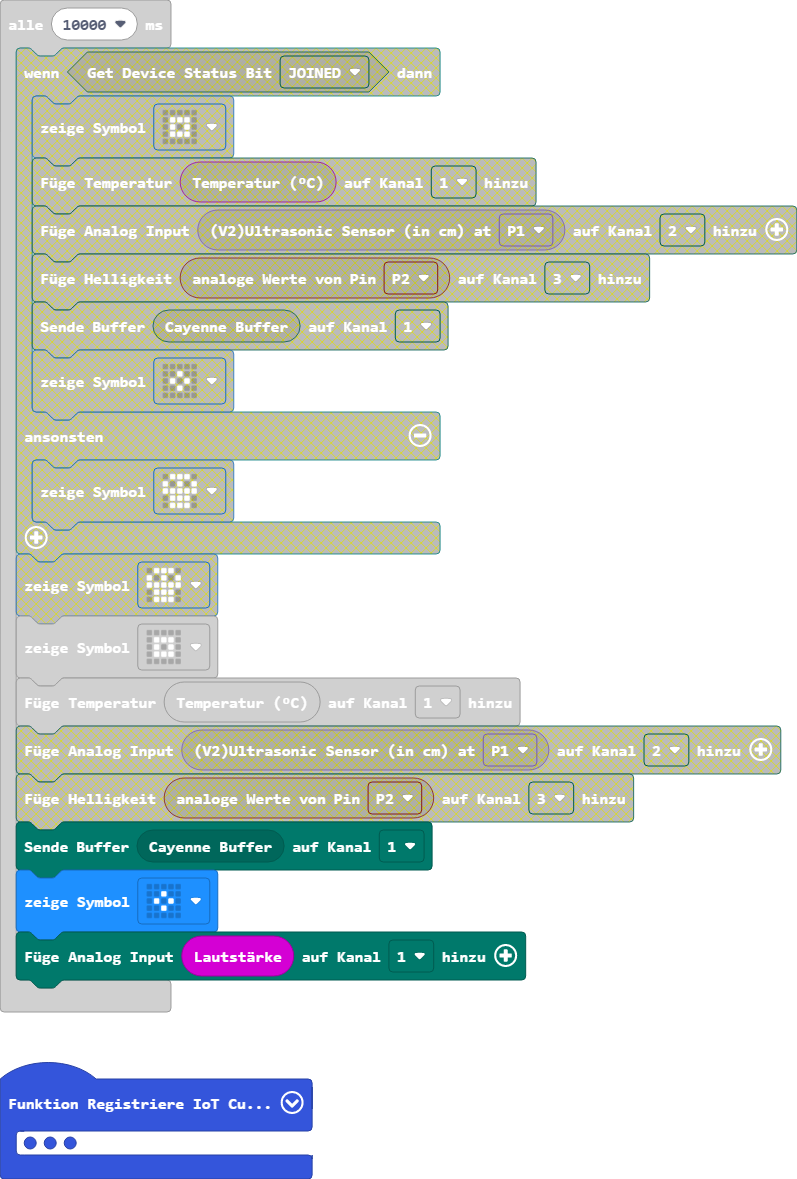
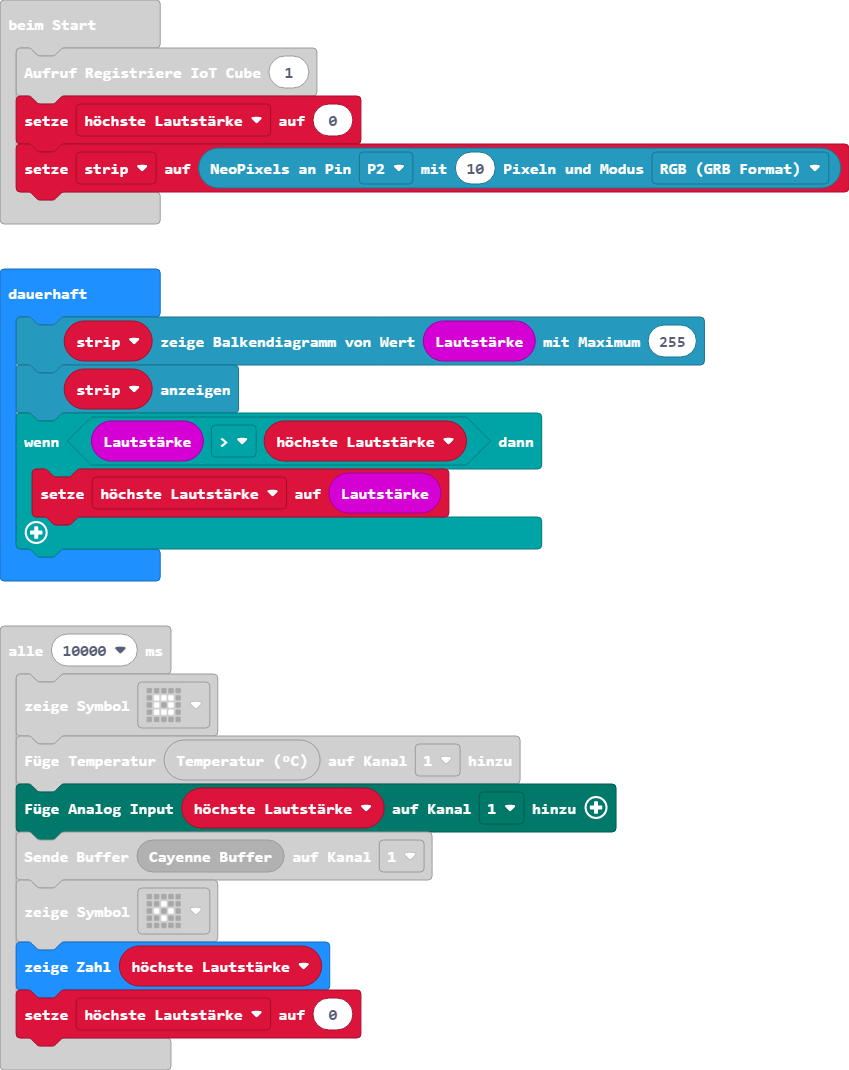
Neopixel

diff --git a/main.ts b/main.ts
@@ -26,10 +26,21 @@ function Registriere_IoT_Cube (CubeNummer: number) {
     )
 }
 Registriere_IoT_Cube(1)
+let höchste_Lautstärke = 0
+let strip = neopixel.create(DigitalPin.P2, 10, NeoPixelMode.RGB)
 loops.everyInterval(10000, function () {
     basic.showIcon(IconNames.SmallSquare)
     IoTCube.addTemperature(input.temperature(), Channels.One)
-    IoTCube.addAnalogInput(input.soundLevel(), Channels.One)
+    IoTCube.addAnalogInput(höchste_Lautstärke, Channels.One)
     IoTCube.SendBuffer(IoTCube.getCayenne(), Channels.One)
     basic.showIcon(IconNames.SmallDiamond)
+    basic.showNumber(höchste_Lautstärke)
+    höchste_Lautstärke = 0
+})
+basic.forever(function () {
+    strip.showBarGraph(input.soundLevel(), 255)
+    strip.show()
+    if (input.soundLevel() > höchste_Lautstärke) {
+        höchste_Lautstärke = input.soundLevel()
+    }
 })
